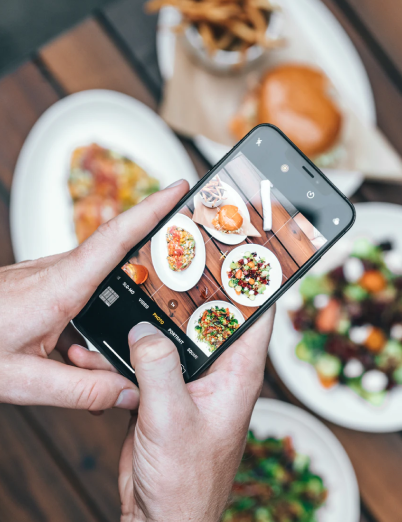
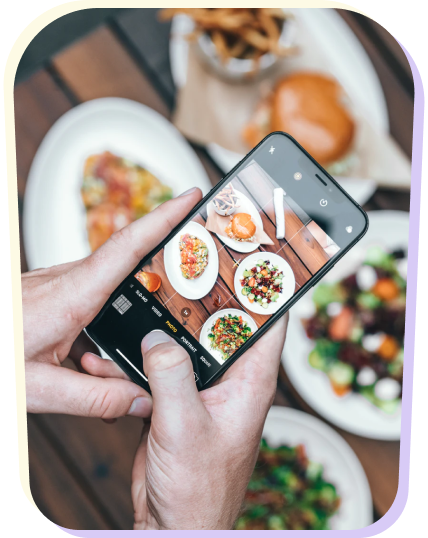
app promote section (OWP)

diff --git a/index.html b/index.html
@@ -177,6 +177,25 @@
         <p>ALUMNI</p>
       </div>
     </section>
+    <!-- app promote -->
+    <section>
+      <div class="container">
+        <div class="row">
+          <div class="col-6">
+            <img src="/assets/images/app.png" alt="" class="img-app mx-auto" />
+          </div>
+          <div class="col-6 align-self-center">
+            <div class="app-description">
+              <h3 class="">Download our app and join the contest</h3>
+              <p>
+                In order to improve our cooking skills,<br />
+                we do need a food photography
+              </p>
+            </div>
+          </div>
+        </div>
+      </div>
+    </section>
     <script
       src="https://code.jquery.com/jquery-3.5.1.js"
       integrity="sha256-QWo7LDvxbWT2tbbQ97B53yJnYU3WhH/C8ycbRAkjPDc="

diff --git a/assets/css/custom-css.css b/assets/css/custom-css.css
@@ -234,3 +234,27 @@ body {
   text-align: center;
   color: #8b8ba5;
 }
+
+.img-app {
+  width: 408px;
+  height: 522px;
+  display: block;
+}
+
+.app-description {
+  width: 445px;
+}
+.app-description h3 {
+  font-weight: bold;
+  font-size: 46px;
+  line-height: 70px;
+  color: #272042;
+  align-items: center;
+}
+
+.app-description p {
+  font-weight: normal;
+  font-size: 20px;
+  line-height: 34px;
+  color: #8b8ba5;
+}
